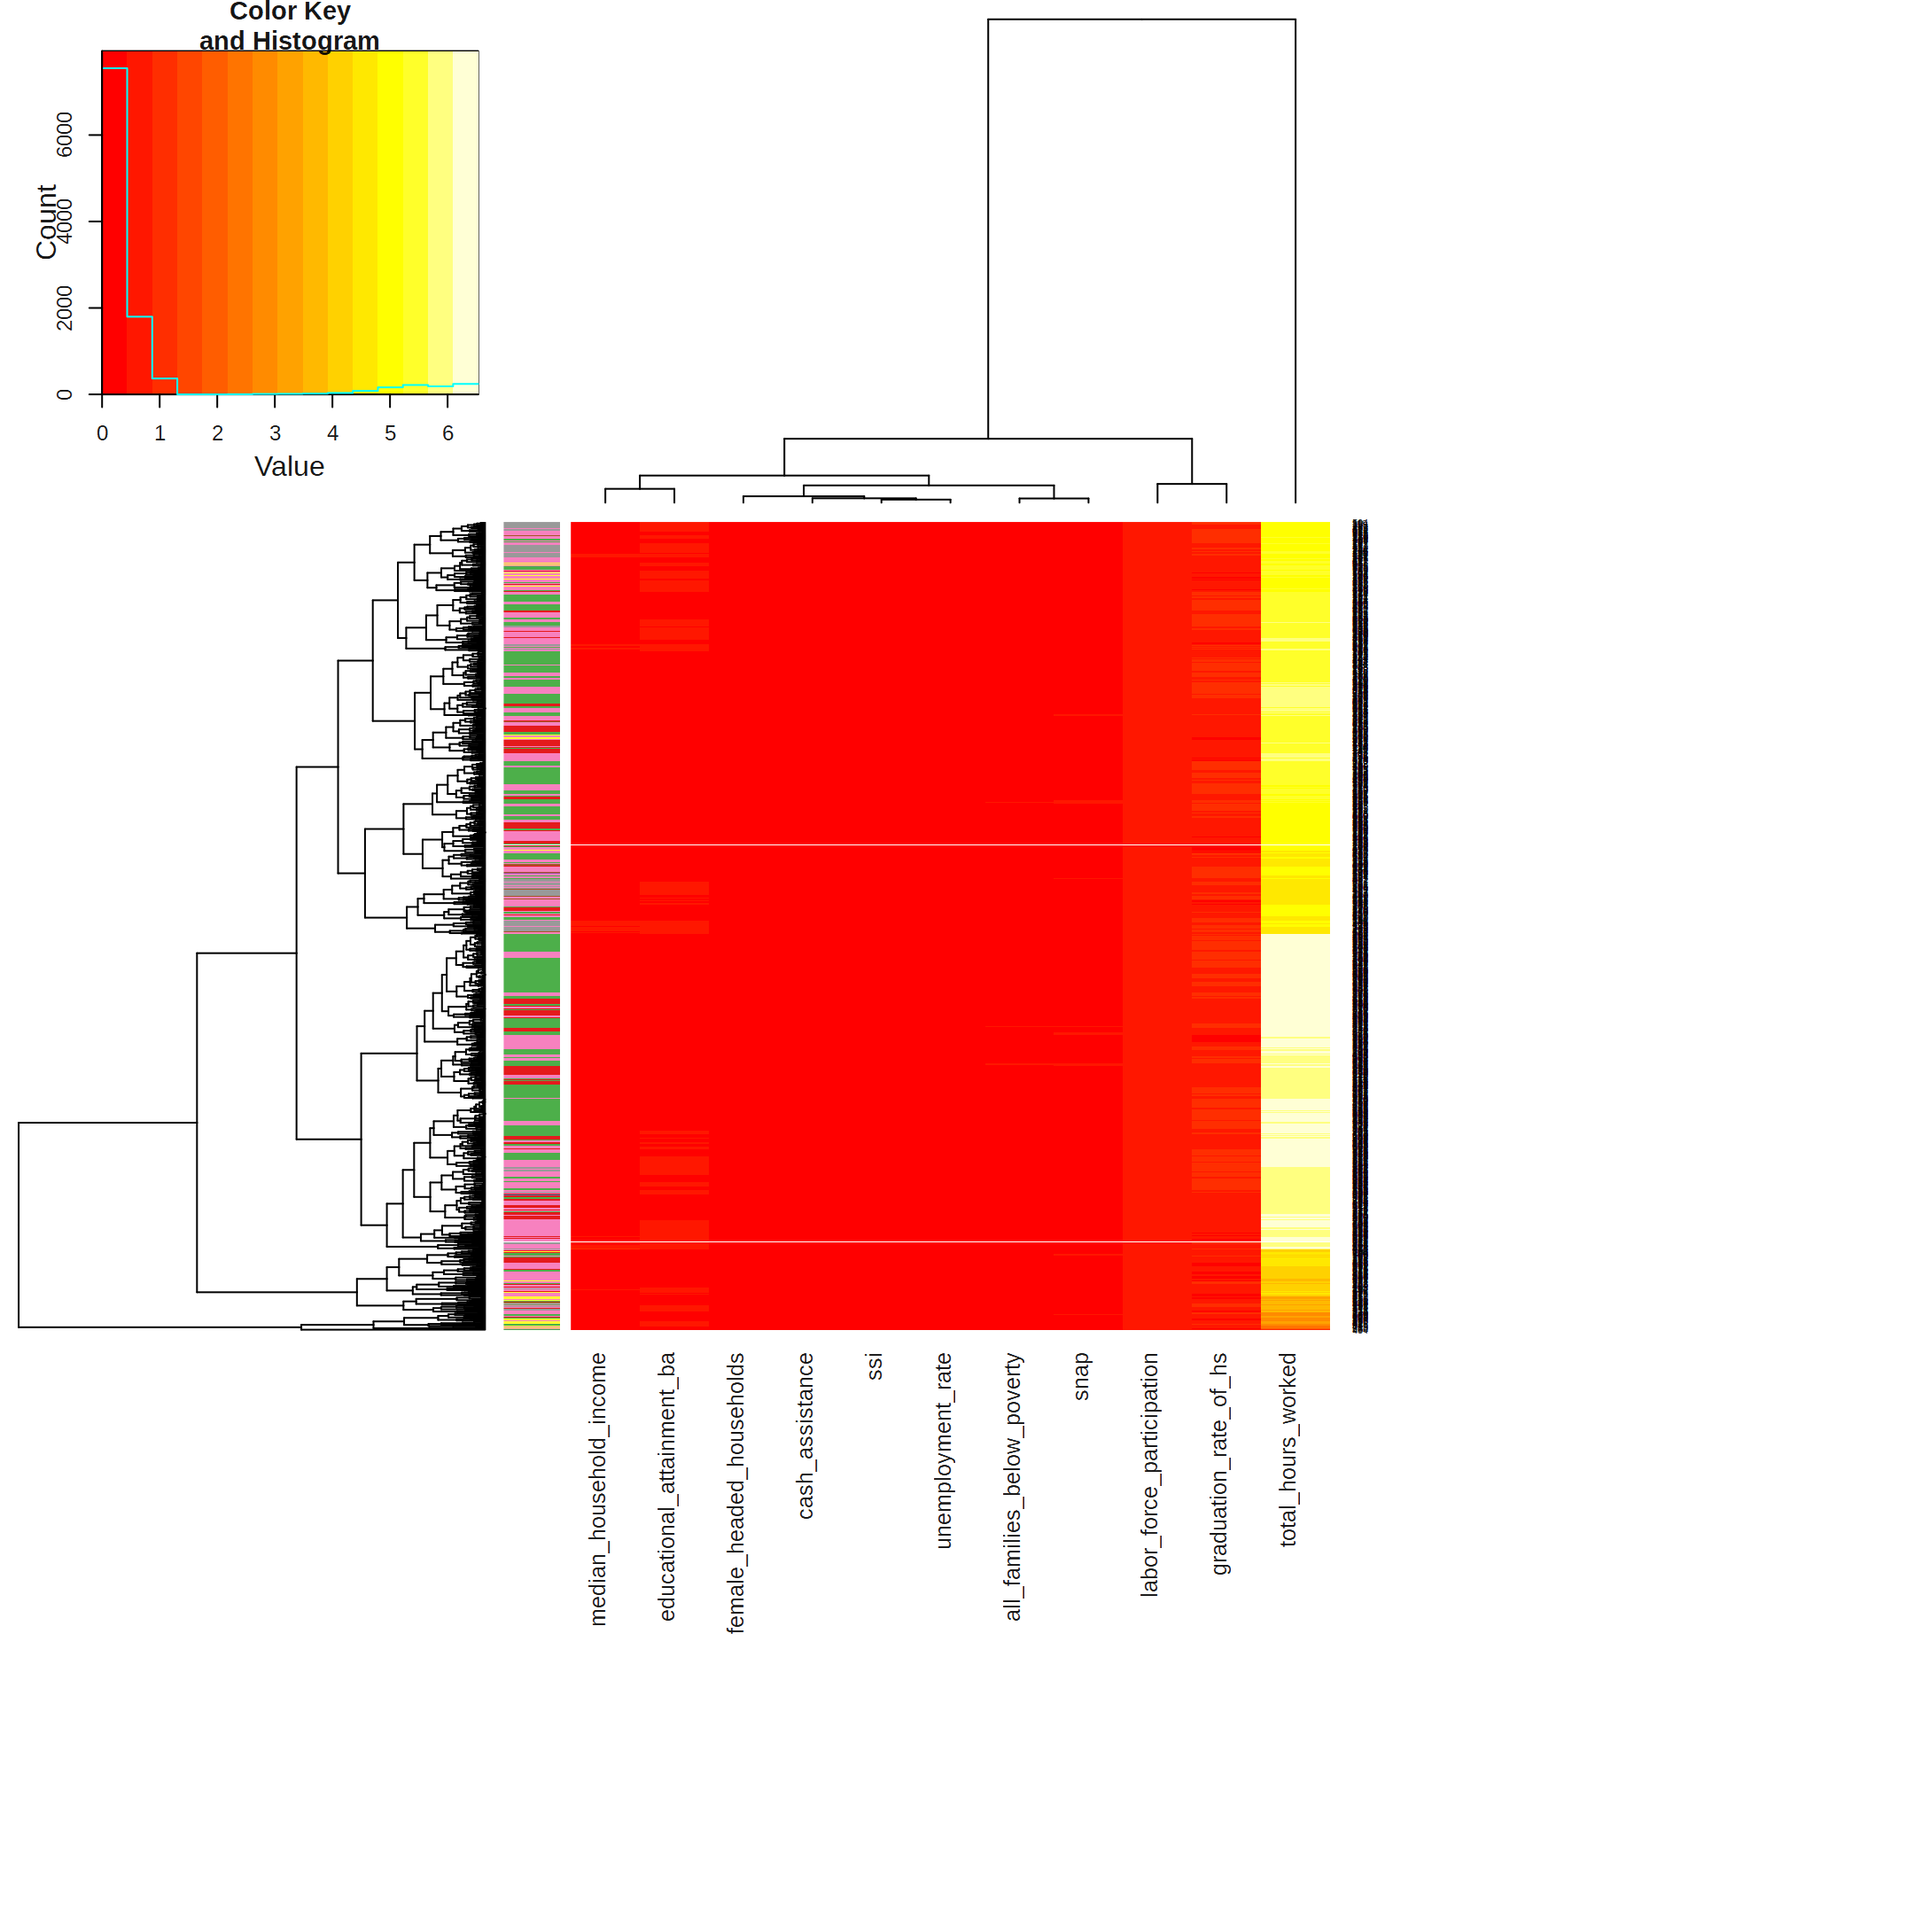
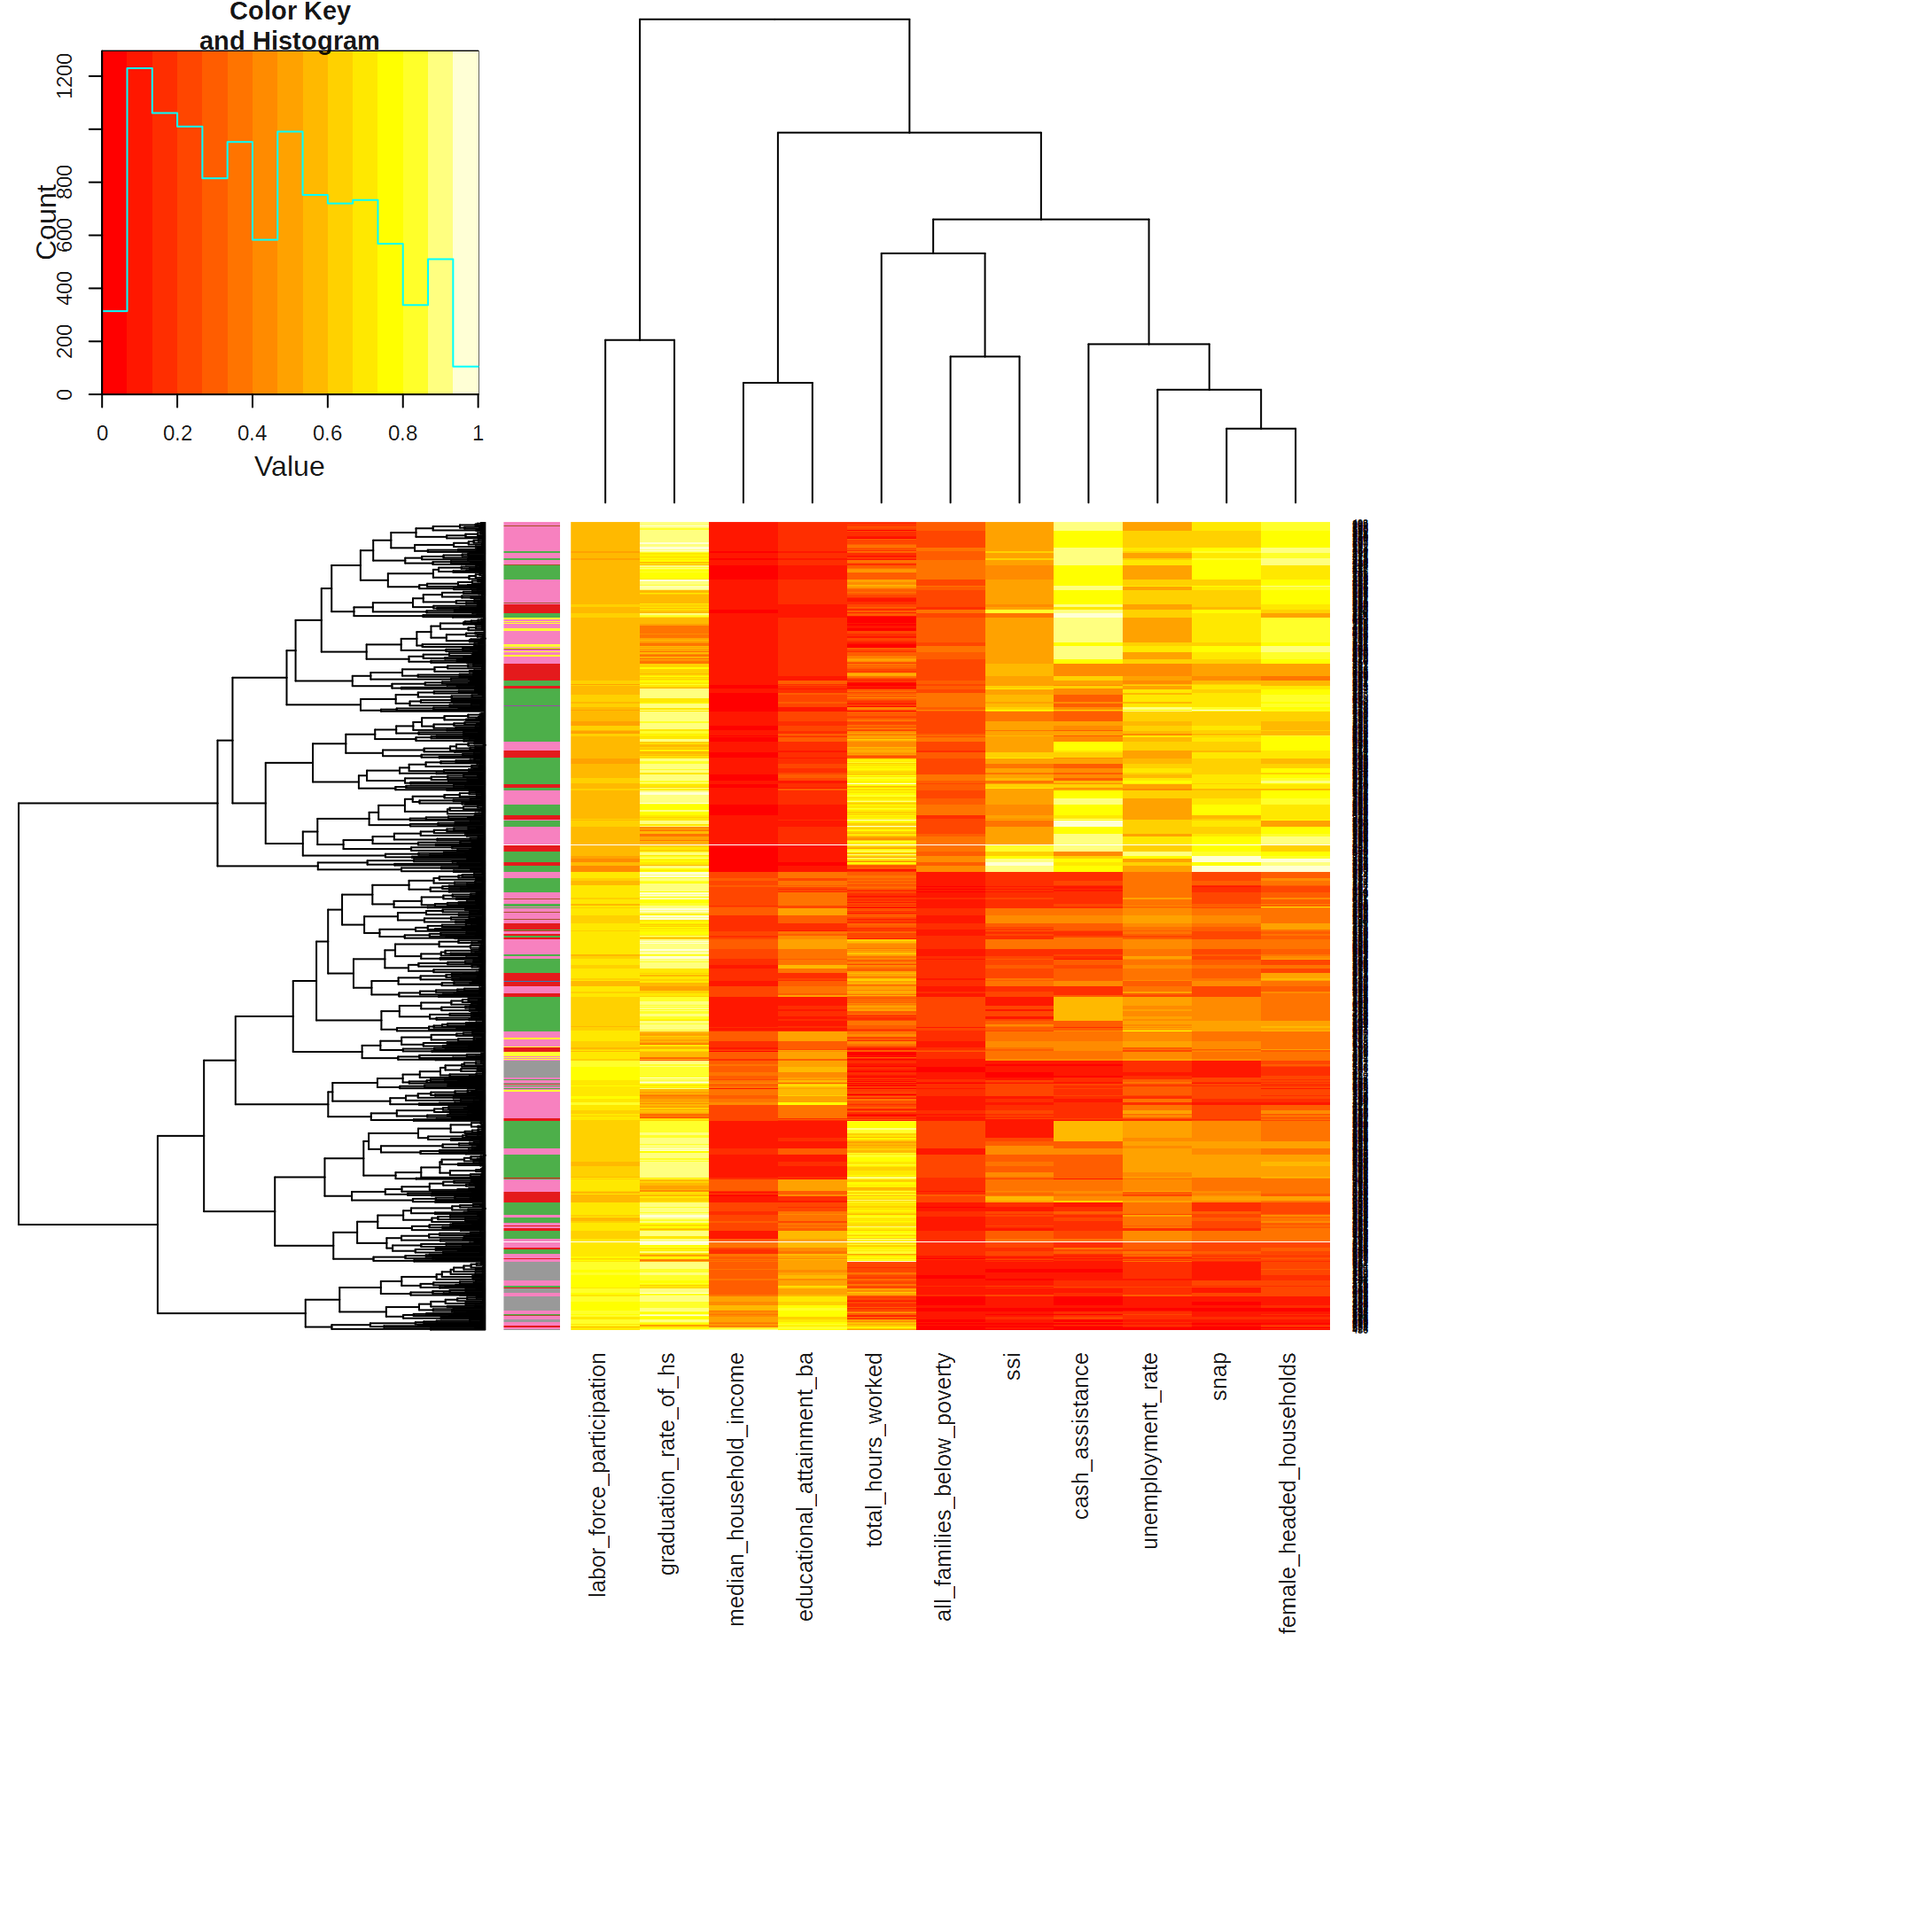
Created (mostly) scaled version of dataset

diff --git a/README.md b/README.md
@@ -219,6 +219,8 @@ dat_short = dat %>% select(intern_status, total_hours_worked,
                            graduation_rate_of_hs)
 
 dat_short_complete = dat_short[complete.cases(dat_short),]
+
+# Heatmap
 heatmap.2(cor(as.matrix(dat_short_complete %>% select(-intern_status))),
           margins=c(26, 26), trace='none')
 ```
@@ -248,14 +250,20 @@ rescale = function(x) {
     (x - min(x)) / max(x)
 }
 
-dat_short_complete$median_household_income = rescale(dat_short_complete$median_household_income)
-dat_short_complete$total_hours_worked      = log1p(dat_short_complete$total_hours_worked)
+dat_scaled = dat_short_complete
 
+dat_scaled$median_household_income  = rescale(dat_scaled$median_household_income)
+dat_scaled$total_hours_worked       = rescale(dat_scaled$total_hours_worked)
+dat_scaled$ssi                      = rescale(dat_scaled$ssi)
+dat_scaled$unemployment_rate        = rescale(dat_scaled$unemployment_rate)
+dat_scaled$female_headed_households = rescale(dat_scaled$female_headed_households)
+dat_scaled$cash_assistance          = rescale(dat_scaled$cash_assistance)
+dat_scaled$snap                     = rescale(dat_scaled$snap)
 
 # numeric fields only
 #mat = dat_short_complete %>% select(-intern_status)
 #mat_scaled = scale(dat_short_complete)
-heatmap.2(as.matrix(dat_short_complete %>% select(-intern_status)),
+heatmap.2(as.matrix(dat_scaled %>% select(-intern_status)),
           margins=c(26, 26), trace='none',
           RowSideColors=location_colors_complete)
 ```
